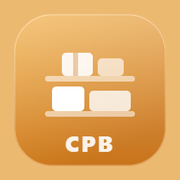
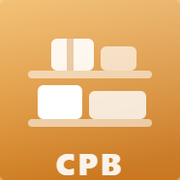
fix: iconos any/maskable separados (fondo naranja solo en Android, transparente en PC)

diff --git a/sw.js b/sw.js
@@ -1,6 +1,6 @@
 // sw.js — Service Worker para Inventario CPB
 // CACHE_NAME se incrementa automáticamente via git pre-commit hook
-const CACHE_NAME = 'cpb-v67';
+const CACHE_NAME = 'cpb-v68';
 
 const PRECACHE = [
   './',
@@ -9,6 +9,8 @@ const PRECACHE = [
   './icons/icon.svg',
   './icons/cpb-logo.png',
   './icons/icon-192.png',
+  './icons/icon-maskable-192.png',
+  './icons/icon-maskable-512.png',
   './icons/icon-512.png',
   './icons/icon-180.png',
   './icons/favicon-32.png',
